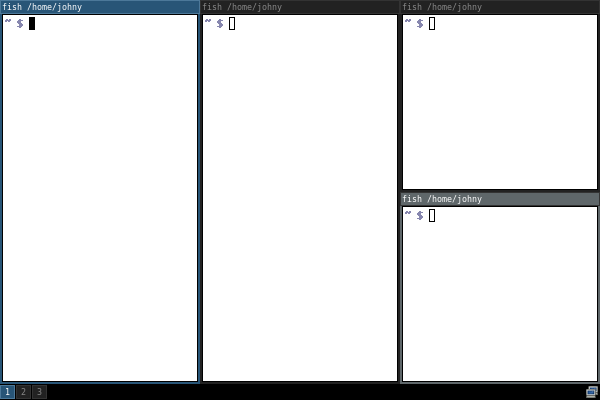
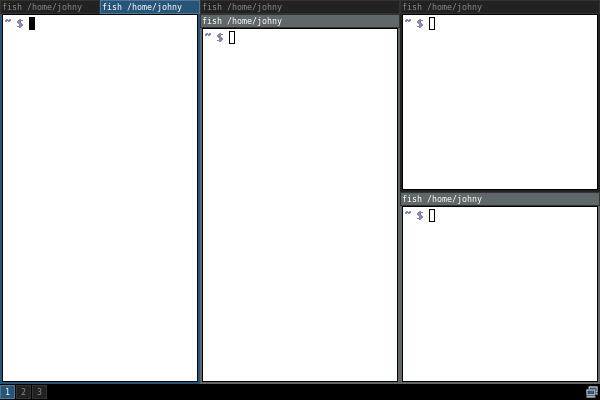
Only one screenshot for i3

Changed region(s): [[0.33, 0.03, 0.69, 0.96], [0.0, 0.0, 0.3, 0.06]]

diff --git a/background.tex b/background.tex
@@ -321,9 +321,9 @@ On top of it are tabs representing the rest of the windows.
 \enditems
 All those layouts can be combined on the screen using so-called containers.
 This means that inside a container that is tabbed can be another container that is using a split layout, for example.
-An example is depicted in figure~\ref[fig:i3desktop2].
-There is a container split horizontally whose left child is a container that is using a tabbed layout with three windows,
-and its right child is a container that is using stacking with three windows as well.
+An example is depicted in figure~\ref[fig:i3desktop].
+The leftmost window is in fact a container that is using a tabbed layout and has two windows.
+Similarly, the container right next to it has two windows in a stacking layout.
 A window can be also completely removed from the tiling layout and managed as a floating window.
 
 i3 is highly configurable using its configuration file.
@@ -335,13 +335,7 @@ specific window will be in a floating state by default.
 \midinsert
 \picw=12cm \cinspic img/i3wm.png
 \clabel[fig:i3desktop]{i3 desktop}
-\caption/f Desktop of i3 with four open windows
-\endinsert
-
-\midinsert
-\picw=12cm \cinspic img/i3wm_2.png
-\clabel[fig:i3desktop2]{i3 desktop, tabs and stacks}
-\caption/f Desktop of i3 with tabs and stacks
+\caption/f Desktop of i3 with four containers and six open windows
 \endinsert
 
 \secc Summary
